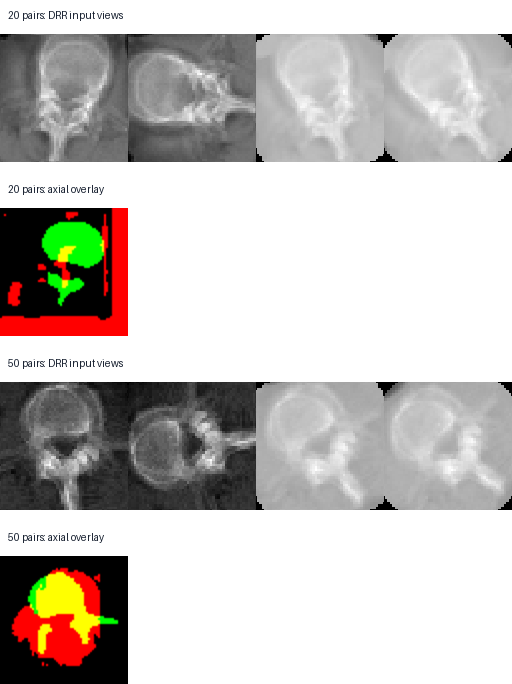
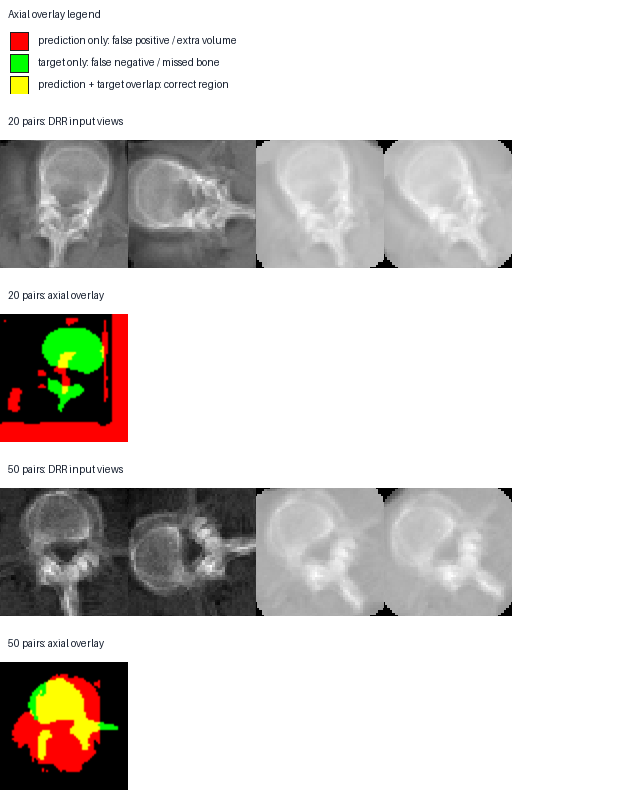
Explain overlay colors in comparison report

diff --git a/reports/real_split_comparison.md b/reports/real_split_comparison.md
@@ -45,6 +45,12 @@ This report compares the saved Kaggle real-split outputs. The 2-patient phase wa
 
 ![Qualitative comparison](comparison_assets/qualitative_comparison.png)
 
+Overlay color legend:
+
+- **Yellow**: prediction and ground truth overlap. This is the correctly reconstructed region.
+- **Red**: prediction only. This is false positive extra volume, meaning the model reconstructed anatomy where the target has no bone.
+- **Green**: ground truth only. This is false negative missed target, meaning real target bone was not reconstructed.
+
 The 50-pair output is visibly more localized. It still predicts extra volume, but the target structure is captured much more consistently than in the 20-pair run.
 
 ## Scale Interpretation